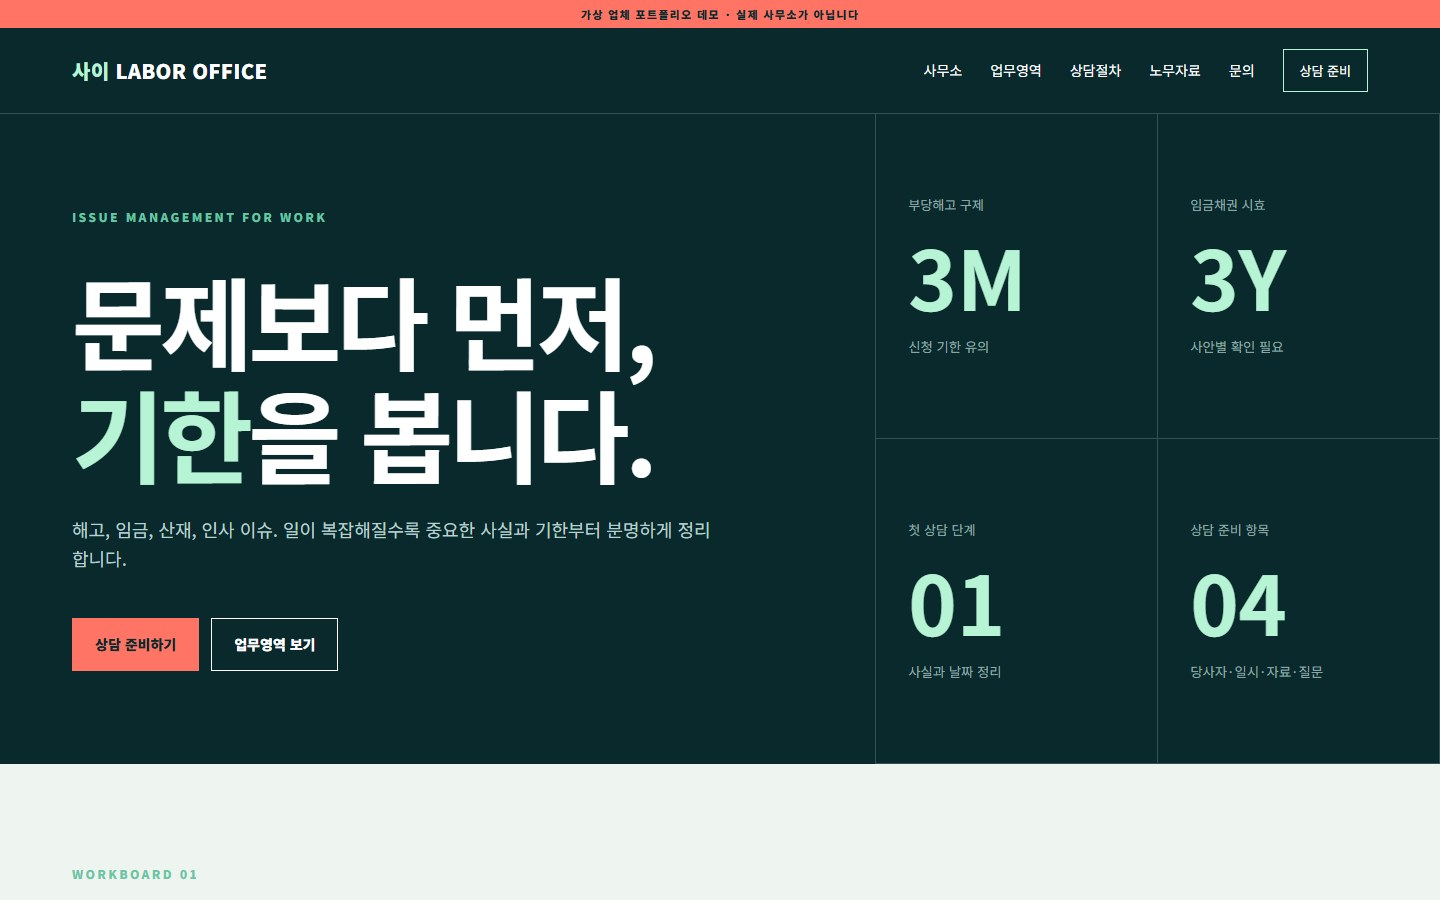
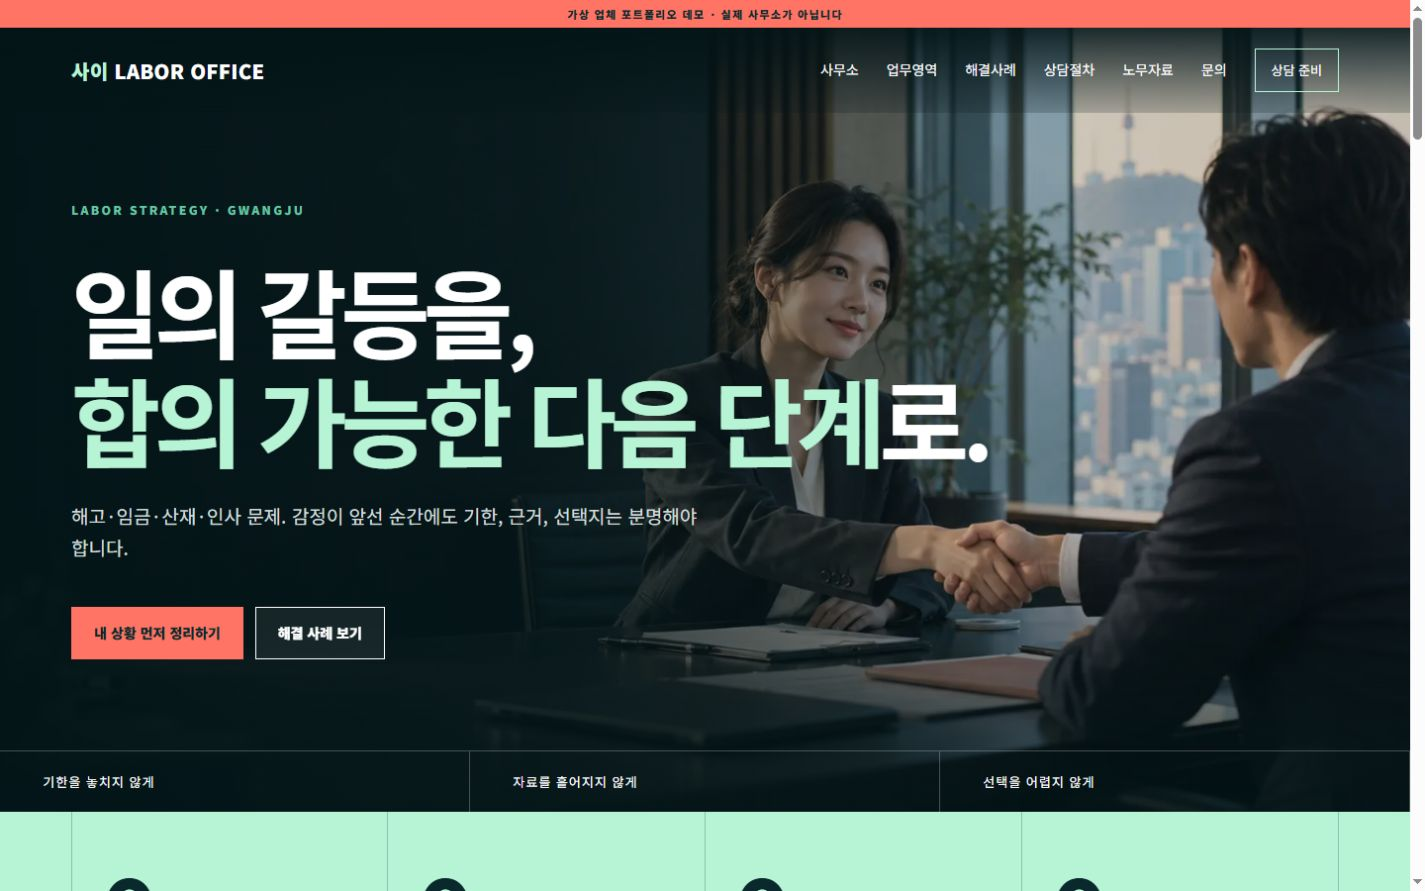
fix(workboard): sync portfolio and consultation demo

diff --git a/templates/pro-labor-office/workboard/src/app/page.tsx b/templates/pro-labor-office/workboard/src/app/page.tsx
@@ -1,11 +1,12 @@
+import { BASE_PATH } from "@/lib/config";
 import Link from "next/link"; import Image from "next/image"; import {site} from "@/data/site"; import CountUp from "@/components/CountUp"; import ServiceExplorer from "@/components/ServiceExplorer"; import CaseSlider from "@/components/CaseSlider";
 export default function Home(){return <>
-<section className="heroNew"><Image src="/images/hero-handshake.webp" alt="상담을 마치고 악수하는 노무사와 의뢰인" fill priority sizes="100vw"/><div className="heroShade"/><div className="heroNewCopy"><p className="eyebrow">LABOR STRATEGY · GWANGJU</p><h1>일의 갈등을,<br/><em>합의 가능한 다음 단계</em>로.</h1><p>해고·임금·산재·인사 문제. 감정이 앞선 순간에도 기한, 근거, 선택지는 분명해야 합니다.</p><div className="actions"><Link className="btn primary" href="/contact">내 상황 먼저 정리하기</Link><Link className="btn glass" href="/cases">해결 사례 보기</Link></div></div><div className="heroTicker"><span>기한을 놓치지 않게</span><span>자료를 흩어지지 않게</span><span>선택을 어렵지 않게</span></div></section>
-<section className="metrics" aria-label="주요 상담 기준"><CountUp value={3} suffix="개월" label="부당해고 구제신청 기한"/><CountUp value={3} suffix="년" label="임금채권 시효 확인"/><CountUp value={4} suffix="단계" label="상담부터 진행까지"/><CountUp value={365} suffix="일" label="온라인 상담 접수"/></section>
+<section className="heroNew"><Image src={`${BASE_PATH}/images/hero-handshake.webp`} alt="상담을 마치고 악수하는 노무사와 의뢰인" fill priority sizes="100vw"/><div className="heroShade"/><div className="heroNewCopy"><p className="eyebrow">LABOR STRATEGY · GWANGJU</p><h1>일의 갈등을,<br/><em>합의 가능한 다음 단계</em>로.</h1><p>해고·임금·산재·인사 문제. 감정이 앞선 순간에도 기한, 근거, 선택지는 분명해야 합니다.</p><div className="actions"><Link className="btn primary" href="/contact">내 상황 먼저 정리하기</Link><Link className="btn glass" href="/cases">해결 사례 보기</Link></div></div><div className="heroTicker"><span>기한을 놓치지 않게</span><span>자료를 흩어지지 않게</span><span>선택을 어렵지 않게</span></div></section>
+<section className="metrics" aria-label="주요 상담 기준"><CountUp value={3} suffix="개월" label="부당해고 구제신청 기한"/><CountUp value={3} suffix="년" label="임금채권 시효 확인"/><CountUp value={4} suffix="단계" label="상담부터 진행까지"/><CountUp value={365} suffix="일" label="언제든 상담 메모 준비"/></section>
 <section className="section introEditorial"><div><p className="eyebrow">WHAT WE DO</p><h2>설명보다 먼저,<br/>판단의 기준을 세웁니다.</h2></div><div><p className="bigCopy">사건 이름부터 정하지 않습니다. 지금 가장 급한 날짜, 남아 있는 자료, 원하는 결과부터 확인합니다.</p><div className="principles"><span>01 · 기한</span><span>02 · 증거</span><span>03 · 선택지</span></div></div></section>
 <section className="section practice"><div className="sectionHead compact"><div><p className="eyebrow">PRACTICE AREAS</p><h2>업무를 선택하면<br/>진행 방식이 보입니다.</h2></div><p>카드를 눌러 주요 쟁점과 준비자료를 확인하세요.</p></div><ServiceExplorer/></section>
-<section className="imageStatement"><Image src="/images/negotiation.webp" alt="회의실에서 노무 현안을 협의하는 모습" fill sizes="100vw"/><div/><blockquote>“맞서는 주장 사이에서,<br/>움직일 수 있는 합의점을 찾습니다.”</blockquote></section>
+<section className="imageStatement"><Image src={`${BASE_PATH}/images/negotiation.webp`} alt="회의실에서 노무 현안을 협의하는 모습" fill sizes="100vw"/><div/><blockquote>“맞서는 주장 사이에서,<br/>움직일 수 있는 합의점을 찾습니다.”</blockquote></section>
 <section className="section caseSection"><div className="sectionHead compact"><div><p className="eyebrow">SELECTED CASES</p><h2>결과보다,<br/>해결의 과정을 봅니다.</h2></div><p>개별 사례는 이해를 돕기 위해 비식별·재구성한 포트폴리오용 예시입니다.</p></div><CaseSlider/></section>
-<section className="splitPromise"><div className="promiseImage"><Image src="/images/resolution.webp" alt="상담 결과를 함께 확인하는 의뢰인과 노무사" fill sizes="(max-width: 900px) 100vw, 50vw"/></div><div className="promiseCopy"><p className="eyebrow">OUR PROMISE</p><h2>결론만 전하지 않습니다.<br/>왜 그런지, 다음은 무엇인지까지.</h2><ul><li><b>01</b><span>가능한 결과와 어려운 지점을 함께 설명합니다.</span></li><li><b>02</b><span>업무 범위와 비용은 시작 전에 명확히 안내합니다.</span></li><li><b>03</b><span>진행 상황과 다음 일정을 단계마다 공유합니다.</span></li></ul></div></section>
+<section className="splitPromise"><div className="promiseImage"><Image src={`${BASE_PATH}/images/resolution.webp`} alt="상담 결과를 함께 확인하는 의뢰인과 노무사" fill sizes="(max-width: 900px) 100vw, 50vw"/></div><div className="promiseCopy"><p className="eyebrow">OUR PROMISE</p><h2>결론만 전하지 않습니다.<br/>왜 그런지, 다음은 무엇인지까지.</h2><ul><li><b>01</b><span>가능한 결과와 어려운 지점을 함께 설명합니다.</span></li><li><b>02</b><span>업무 범위와 비용은 시작 전에 명확히 안내합니다.</span></li><li><b>03</b><span>진행 상황과 다음 일정을 단계마다 공유합니다.</span></li></ul></div></section>
 <section className="cta premiumCta"><div><p className="eyebrow">READY TO TALK</p><h2>첫 상담은 사건을 맡기는 자리가 아니라,<br/>방향을 확인하는 자리입니다.</h2><p>{site.hours} · {site.tel}</p></div><Link className="btn primary" href="/contact">상담 준비 시작</Link></section>
 </>}

diff --git a/templates/pro-labor-office/workboard/src/app/contact/page.tsx b/templates/pro-labor-office/workboard/src/app/contact/page.tsx
@@ -1,3 +1,4 @@
 import PageHero from "@/components/PageHero"; import { site } from "@/data/site";
+import ConsultationMemo from "@/components/ConsultationMemo";
 export const metadata={title:"상담 문의"};
-export default function Contact(){return <><PageHero eyebrow="CONTACT" title="말보다 먼저, 사실을 네 칸에 적어보세요." desc="원하는 상담 방식을 선택하고 현재 상황을 남겨주세요. 아래 양식은 데모이며 실제 전송되지 않습니다."/><section className="contactMethods"><article><b>01</b><h2>전화</h2><p>급한 기한과 상담 가능 시간을 먼저 확인합니다.</p><a href={`tel:${site.tel.replaceAll("-","")}`}>{site.tel}</a></article><article><b>02</b><h2>방문</h2><p>예약 후 자료를 가지고 사무소에서 상담합니다.</p><span>{site.address}</span></article><article><b>03</b><h2>비대면</h2><p>전화·이메일로 자료를 주고받으며 상담합니다.</p><a href={`mailto:${site.email}`}>{site.email}</a></article></section><section className="section contactGrid"><form><label>1. 누구의 문제인가요?<select defaultValue=""><option value="" disabled>선택해 주세요</option><option>사업주·인사담당자</option><option>근로자·퇴직자</option><option>기타</option></select></label><label>2. 희망 상담 방식<select defaultValue=""><option value="" disabled>선택해 주세요</option><option>전화 상담</option><option>방문 상담</option><option>비대면 상담</option></select></label><label>3. 가장 중요한 날짜<input type="date"/></label><label>4. 현재 가지고 있는 자료<input placeholder="예: 근로계약서, 급여명세서, 통지서"/></label><label>5. 가장 먼저 묻고 싶은 내용<textarea rows={5} placeholder="상황을 간단히 적어주세요"/></label><p className="formNote">상담 및 사건 비용은 업무 범위와 자료를 확인한 뒤 사전에 안내합니다.</p><button type="button" className="btn primary">상담 내용 저장 (데모)</button></form><aside><p className="eyebrow">VISIT</p><h2>{site.name}</h2><dl><div><dt>전화</dt><dd>{site.tel}</dd></div><div><dt>이메일</dt><dd>{site.email}</dd></div><div><dt>주소</dt><dd>{site.address}</dd></div><div><dt>운영</dt><dd>{site.hours}</dd></div></dl><div className="map"><span>GWANGJU</span><b>35.15°N<br/>126.85°E</b><small>상무지구 · 예약 후 방문</small></div></aside></section></>}
+export default function Contact(){return <><PageHero eyebrow="CONTACT" title="말보다 먼저, 사실을 네 칸에 적어보세요." desc="원하는 상담 방식을 선택하고 현재 상황을 남겨주세요. 아래 양식은 데모이며 실제 전송되지 않습니다."/><section className="contactMethods"><article><b>01</b><h2>전화</h2><p>급한 기한과 상담 가능 시간을 먼저 확인합니다.</p><a href={`tel:${site.tel.replaceAll("-","")}`}>{site.tel}</a></article><article><b>02</b><h2>방문</h2><p>예약 후 자료를 가지고 사무소에서 상담합니다.</p><span>{site.address}</span></article><article><b>03</b><h2>비대면</h2><p>전화·이메일로 자료를 주고받으며 상담합니다.</p><a href={`mailto:${site.email}`}>{site.email}</a></article></section><section className="section contactGrid"><ConsultationMemo/><aside><p className="eyebrow">VISIT</p><h2>{site.name}</h2><dl><div><dt>전화</dt><dd>{site.tel}</dd></div><div><dt>이메일</dt><dd>{site.email}</dd></div><div><dt>주소</dt><dd>{site.address}</dd></div><div><dt>운영</dt><dd>{site.hours}</dd></div></dl><div className="map"><span>GWANGJU</span><b>35.15°N<br/>126.85°E</b><small>상무지구 · 예약 후 방문</small></div></aside></section></>}

diff --git a/templates/pro-labor-office/workboard/src/components/ConsultationMemo.tsx b/templates/pro-labor-office/workboard/src/components/ConsultationMemo.tsx
@@ -1,0 +1,43 @@
+"use client";
+
+import { useState } from "react";
+
+export default function ConsultationMemo() {
+  const [status, setStatus] = useState("");
+
+  function memo(form: HTMLFormElement) {
+    const data = new FormData(form);
+    const value = (key: string) => String(data.get(key) || "").trim() || "미작성";
+    return `상담 준비 메모\n\n희망 상담 방식: ${value("method")}\n1. 당사자: ${value("party")}\n2. 중요한 날짜: ${value("date")}\n3. 준비 자료: ${value("materials")}\n4. 먼저 묻고 싶은 내용: ${value("question")}\n\n포트폴리오 데모에서 작성한 개인 메모입니다. 실제 상담 접수는 이루어지지 않았습니다.\n`;
+  }
+
+  async function copy(form: HTMLFormElement) {
+    try {
+      await navigator.clipboard.writeText(memo(form));
+      setStatus("상담 메모를 복사했습니다. 원하는 곳에 붙여넣어 보관하세요. 실제 접수는 이루어지지 않았습니다.");
+    } catch {
+      setStatus("복사하지 못했습니다. 메모 파일 저장을 이용해 주세요.");
+    }
+  }
+
+  function download(form: HTMLFormElement) {
+    const url = URL.createObjectURL(new Blob(["\uFEFF", memo(form)], { type: "text/plain;charset=utf-8" }));
+    const link = document.createElement("a");
+    link.href = url;
+    link.download = "상담-준비-메모.txt";
+    link.click();
+    window.setTimeout(() => URL.revokeObjectURL(url), 1000);
+    setStatus("메모 파일 다운로드를 시작했습니다. 실제 접수는 이루어지지 않았습니다.");
+  }
+
+  return <form onSubmit={event => event.preventDefault()} onChange={() => setStatus("")}>
+    <fieldset className="memoMethod"><legend>희망 상담 방식</legend><label>상담 방식 선택<select name="method" defaultValue=""><option value="">아직 정하지 않았습니다</option><option>전화 상담</option><option>방문 상담</option><option>비대면 상담</option></select></label></fieldset>
+    <label>1. 누구의 문제인가요?<select name="party" defaultValue=""><option value="">선택해 주세요</option><option>사업주·인사담당자</option><option>근로자·퇴직자</option><option>기타</option></select></label>
+    <label>2. 가장 중요한 날짜<input name="date" type="date"/></label>
+    <label>3. 현재 가지고 있는 자료<input name="materials" placeholder="예: 근로계약서, 급여명세서, 통지서"/></label>
+    <label>4. 가장 먼저 묻고 싶은 내용<textarea name="question" rows={5} placeholder="상황을 간단히 적어주세요"/></label>
+    <p className="formNote">작성 내용은 서버로 전송되지 않습니다. 복사하거나 파일로 저장해 직접 보관하세요. 상담 및 사건 비용은 업무 범위와 자료를 확인한 뒤 사전에 안내합니다.</p>
+    <div className="memoActions"><button type="button" className="btn primary" onClick={event => { const form = event.currentTarget.form; if (form) void copy(form); }}>상담 메모 복사</button><button type="button" className="btn ghost" onClick={event => { const form = event.currentTarget.form; if (form) download(form); }}>메모 파일 저장</button></div>
+    <p role="status" aria-live="polite" className="memoStatus">{status}</p>
+  </form>;
+}

diff --git a/templates/pro-labor-office/workboard/src/app/cases/page.tsx b/templates/pro-labor-office/workboard/src/app/cases/page.tsx
@@ -1,3 +1,4 @@
+import { BASE_PATH } from "@/lib/config";
 import Image from "next/image"; import Link from "next/link"; import PageHero from "@/components/PageHero"; import {cases} from "@/data/site";
 export const metadata={title:"해결 사례"};
-export default function Cases(){return <><PageHero eyebrow="CASE ARCHIVE" title="비슷해 보여도, 해결의 시작점은 다릅니다." desc="기한·자료·관계에 따라 달라지는 해결 과정을 사례별로 살펴보세요."/><section className="section caseArchive"><div className="archiveIntro"><p>아래 내용은 실제 업무 유형을 바탕으로 개인정보와 구체적 사실을 바꿔 재구성한 포트폴리오용 예시입니다.</p><span>{cases.length.toLocaleString("ko-KR")}개의 대표 사례</span></div><div className="caseGrid">{cases.map((c,i)=><article key={c.title}><div className="caseGridImage"><Image src={c.image} alt="" fill sizes="(max-width: 900px) 100vw, 33vw"/></div><div className="caseGridBody"><div><span>{String(i+1).padStart(2,"0")}</span><b>{c.category}</b></div><h2>{c.title}</h2><p>{c.summary}</p><strong>{c.result}</strong></div></article>)}</div></section><section className="cta premiumCta"><div><p className="eyebrow">YOUR CASE</p><h2>내 상황의 시작점은<br/>직접 확인해야 합니다.</h2></div><Link className="btn primary" href="/contact">상담 준비하기</Link></section></>}
+export default function Cases(){return <><PageHero eyebrow="CASE ARCHIVE" title="비슷해 보여도, 해결의 시작점은 다릅니다." desc="기한·자료·관계에 따라 달라지는 해결 과정을 사례별로 살펴보세요."/><section className="section caseArchive"><div className="archiveIntro"><p>아래 내용은 실제 업무 유형을 바탕으로 개인정보와 구체적 사실을 바꿔 재구성한 포트폴리오용 예시입니다.</p><span>{cases.length.toLocaleString("ko-KR")}개의 대표 사례</span></div><div className="caseGrid">{cases.map((c,i)=><article key={c.title}><div className="caseGridImage"><Image src={`${BASE_PATH}${c.image}`} alt="" fill sizes="(max-width: 900px) 100vw, 33vw"/></div><div className="caseGridBody"><div><span>{String(i+1).padStart(2,"0")}</span><b>{c.category}</b></div><h2>{c.title}</h2><p>{c.summary}</p><strong>{c.result}</strong></div></article>)}</div></section><section className="cta premiumCta"><div><p className="eyebrow">YOUR CASE</p><h2>내 상황의 시작점은<br/>직접 확인해야 합니다.</h2></div><Link className="btn primary" href="/contact">상담 준비하기</Link></section></>}

diff --git a/templates/pro-labor-office/workboard/src/app/enhancements.css b/templates/pro-labor-office/workboard/src/app/enhancements.css
@@ -19,3 +19,6 @@
 .archiveIntro{display:flex;justify-content:space-between;align-items:center;border-bottom:1px solid var(--line);margin-bottom:40px}.archiveIntro p{max-width:720px;color:var(--muted)}.archiveIntro span{font-weight:900}.caseGrid{display:grid;grid-template-columns:repeat(3,1fr);gap:18px}.caseGrid article{background:white;border:1px solid var(--line)}.caseGridImage{position:relative;aspect-ratio:4/3;overflow:hidden}.caseGridImage img{transition:transform .45s}.caseGrid article:hover img{transform:scale(1.035)}.caseGridBody{padding:25px}.caseGridBody>div{display:flex;justify-content:space-between;color:var(--coral);font-size:12px}.caseGridBody h2{font-size:27px;margin:28px 0 16px}.caseGridBody p{color:var(--muted);font-size:15px}.caseGridBody strong{display:block;border-top:1px solid var(--line);padding-top:18px;margin-top:24px;font-size:13px}
 @media(max-width:900px){.header{position:relative;top:auto;background:var(--ink)}.metrics{grid-template-columns:1fr 1fr}.introEditorial,.serviceExplorer,.splitPromise{grid-template-columns:1fr}.serviceExplorer{min-height:0}.serviceDetail{min-height:520px}.promiseImage{min-height:520px}.caseGrid{grid-template-columns:1fr 1fr}.caseRail{grid-auto-columns:minmax(310px,72vw)}}
 @media(max-width:560px){.heroNew{min-height:720px}.heroNewCopy{padding:80px 20px}.heroNew h1{font-size:48px}.heroTicker{grid-template-columns:1fr}.heroTicker span{padding:8px 20px;border-right:0}.metrics{padding:0 20px}.metric{padding:32px 12px}.metric strong span{font-size:52px}.metric strong{font-size:17px}.introEditorial{gap:30px}.principles{gap:12px;flex-wrap:wrap}.serviceTabs button{grid-template-columns:42px 1fr}.serviceTabs button small{display:none}.serviceDetail{padding:30px 22px;min-height:560px}.serviceDetail h3{font-size:42px}.serviceDetail dl div{grid-template-columns:1fr;gap:5px}.imageStatement{height:520px;padding:28px 20px}.caseGrid{grid-template-columns:1fr}.archiveIntro{display:block}.caseRail{grid-auto-columns:88vw}.promiseImage{min-height:430px}.promiseCopy{padding:70px 20px}.premiumCta{margin-top:70px}}
+
+.memoMethod{margin:0 0 28px;padding:20px;border:1px solid var(--line)}.memoMethod legend{padding:0 8px;font-weight:800}.memoActions{display:flex;gap:12px;flex-wrap:wrap}.memoStatus{min-height:3em;font-size:14px;font-weight:700;color:var(--ink)}
+.memoActions .ghost{color:var(--ink);border-color:var(--ink);background:transparent}.memoActions .ghost:hover{background:var(--ink);color:white}

diff --git a/docs/decisions.md b/docs/decisions.md
@@ -121,3 +121,8 @@
 ## 2026-10-04 — 공통 에디터 일관성과 편집 대상 격리
 - 최신 사용자 기준에 따라 에디터 UI·기능은 루트 editor/ 단일 소스로 관리하고 모든 사이트의 /editor/에 같은 버전을 패키징한다. 이전 사이트별 에디터 소스 복제 결정은 이 기준으로 대체한다.
 - 사이트 화면 소스와 에디터 소스는 분리하며, 편집 설정·브라우저 저장·가져오기·초기화는 siteId별 격리를 유지한다. 에디터 기능 개선의 공통 반영과 사이트 편집값의 전파를 구분한다.
+
+## 2026-10-08 — Workboard 공개 데모와 대표 포트폴리오 동기화
+- 사진 경로는 GitHub Pages basePath를 포함한다. 대표 썸네일은 사진 로딩을 확인한 최신 홈 캡처를 사용한다.
+- 가상 사무소의 상담은 실제 접수 대신 당사자·날짜·자료·질문 네 칸 메모의 복사·파일 저장을 제공하고, 상담 방식 선택은 별도로 둔다. 서버 전송 없이 이용자가 직접 보관한다.
+- 공개 상태는 deployed, 사례 아카이브를 포함한 페이지 수는 7로 기록한다. 대표 카드·관리 목록을 동일한 현재 기능에 맞춘다.

diff --git a/docs/history.md b/docs/history.md
@@ -61,3 +61,5 @@
 - 2026-10-06: 오븐노트 시간표 사진을 모두 정사각형으로 통일, 영문 이름과 제품별 소개 추가. 모바일 2열 조정.
 - 2026-10-06: food-steakhouse 시안 ember-claw(엠버 & 클로) 추가. 빕스 브랜드스토리 구조 + 스테이크·랍스터 인스타 분위기 참고, 사진 31컷은 Drive '엠버 & 클로 제작 사양서' 기준으로 GPT 생성 예정. 360px 가로 넘침 없음.
 - 클라우드 세션은 외부 사이트 접속(WebFetch·curl)이 네트워크 정책으로 막힐 수 있다. 레퍼런스 조사는 WebSearch 결과로 하고, 캡처가 필요하면 환경의 허용 도메인을 넓히거나 사람이 캡처를 준다.
+
+- 2026-10-08: workboard 최신 사진·지표·업무 전환·6개 사례 공개 확인. 사진 basePath 누락 수정, 상담 메모 복사·파일 저장 구현, 대표 썸네일·카드와 deployed·7페이지 관리 데이터 동기화.
